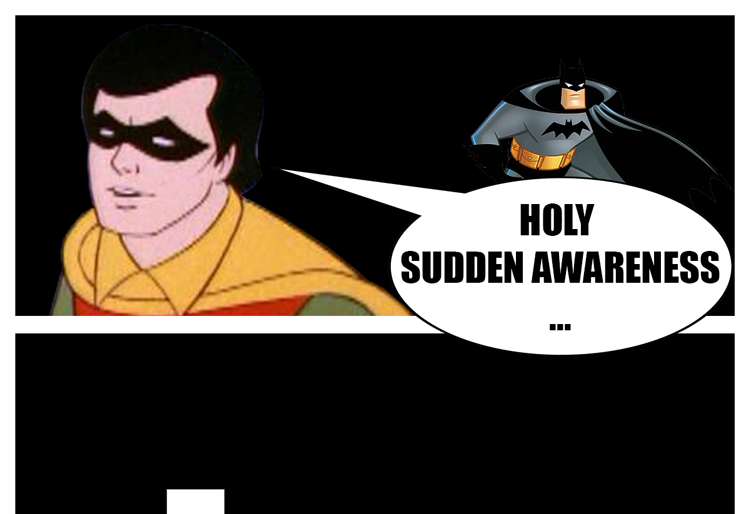
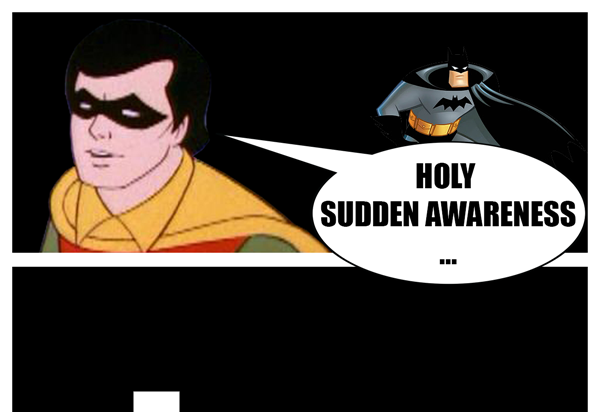
Try it in 600px wide. #TheresNoRules! #PutYourShirtOn #TheresOneRule!

diff --git a/_posts/2014-09-08-ep2-staredad.md b/_posts/2014-09-08-ep2-staredad.md
@@ -5,7 +5,7 @@ _page_img: ""
 ---
 
 
-<div style="margin-left: auto; margin-right: auto; width: 750px;">
+<div style="margin-left: auto; margin-right: auto; width: 600px;">
 	<img src="/assets/ep/ep01x02_01.png" alt="Weird Shit - Staredad" />
 	<img src="/assets/ep/ep01x02_02.png" alt="Weird Shit - Staredad" />
 	<img src="/assets/ep/ep01x02_03.png" alt="Weird Shit - Staredad" />
